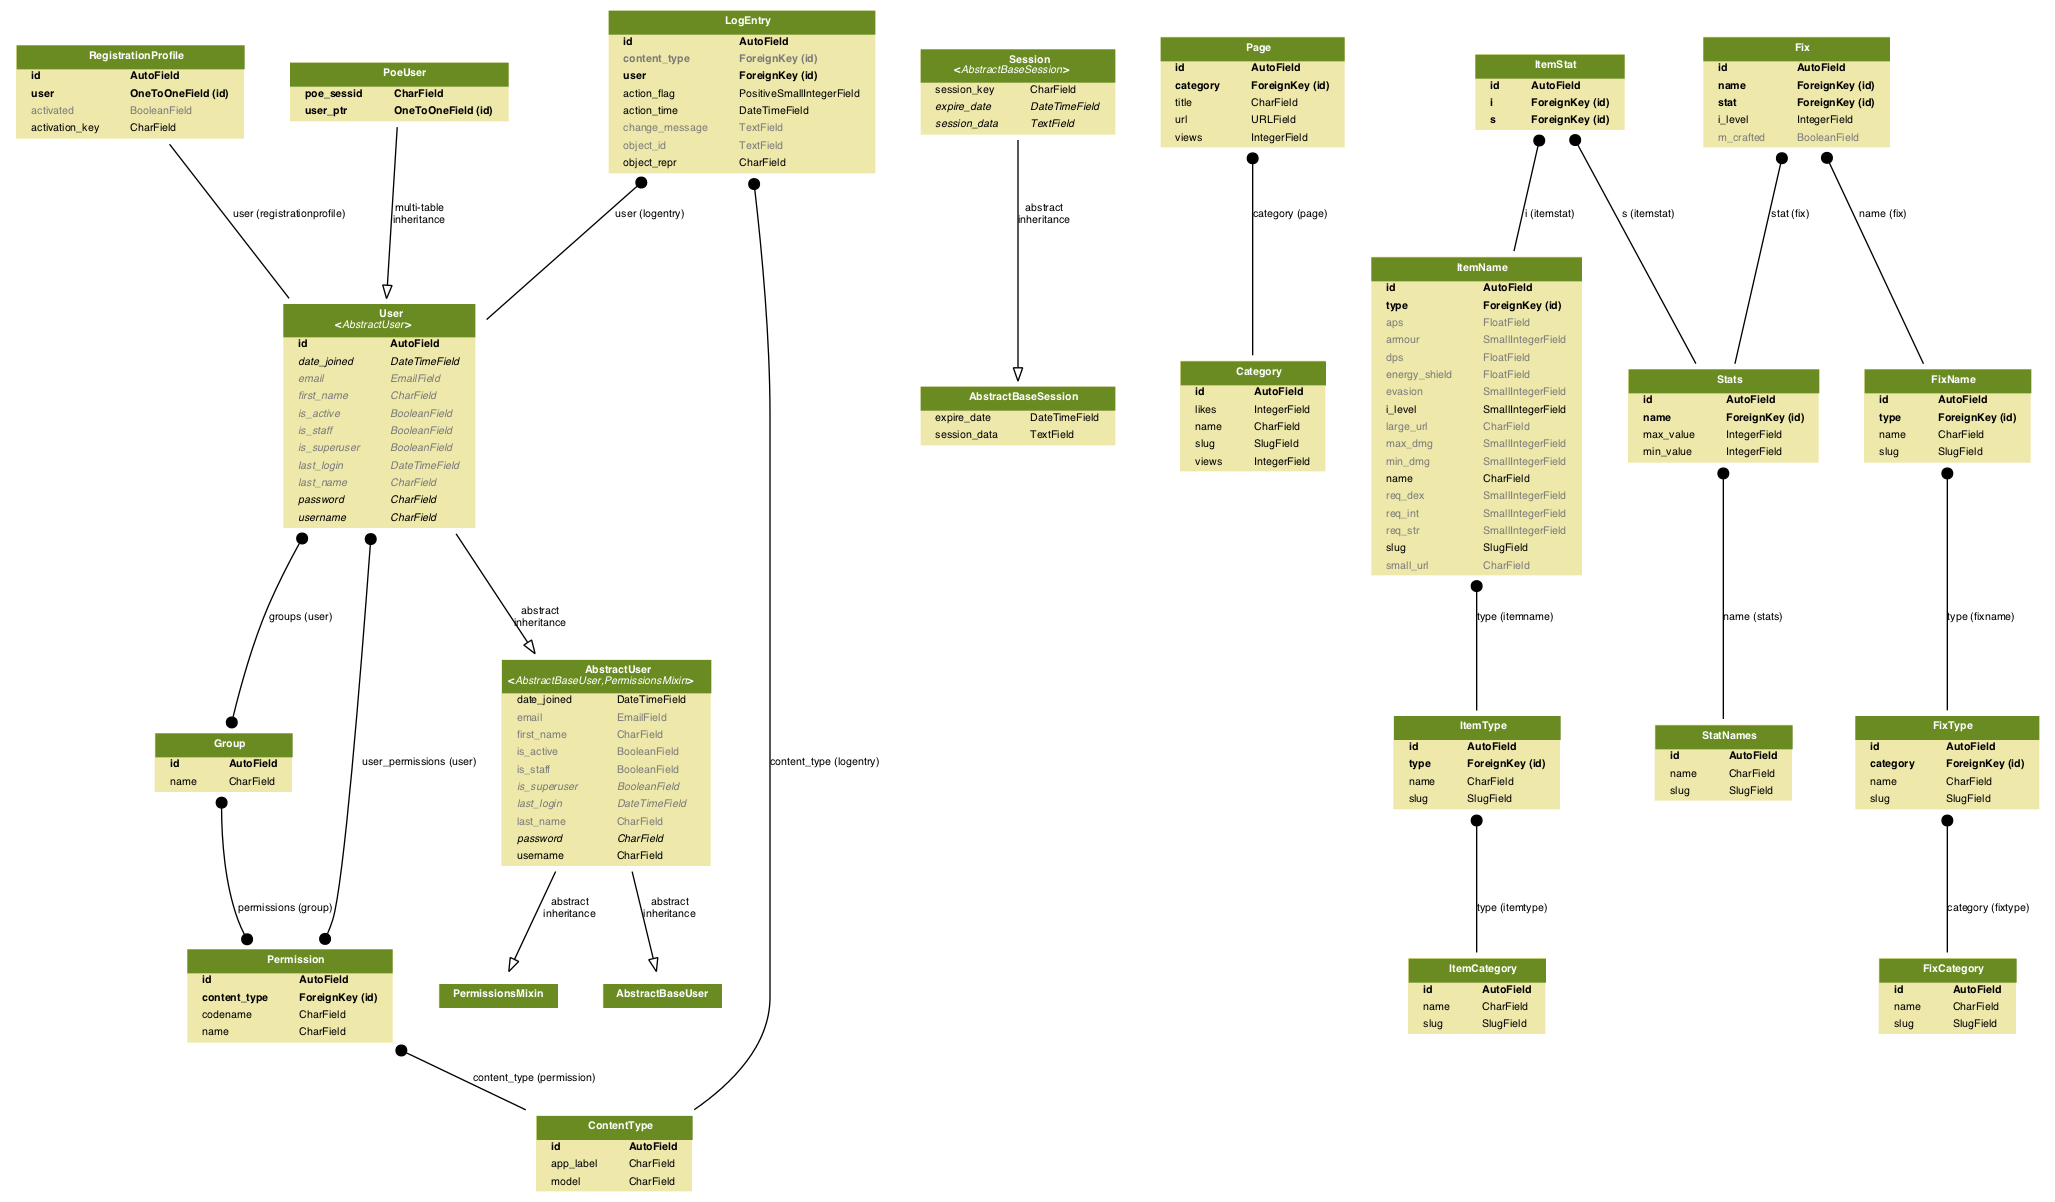
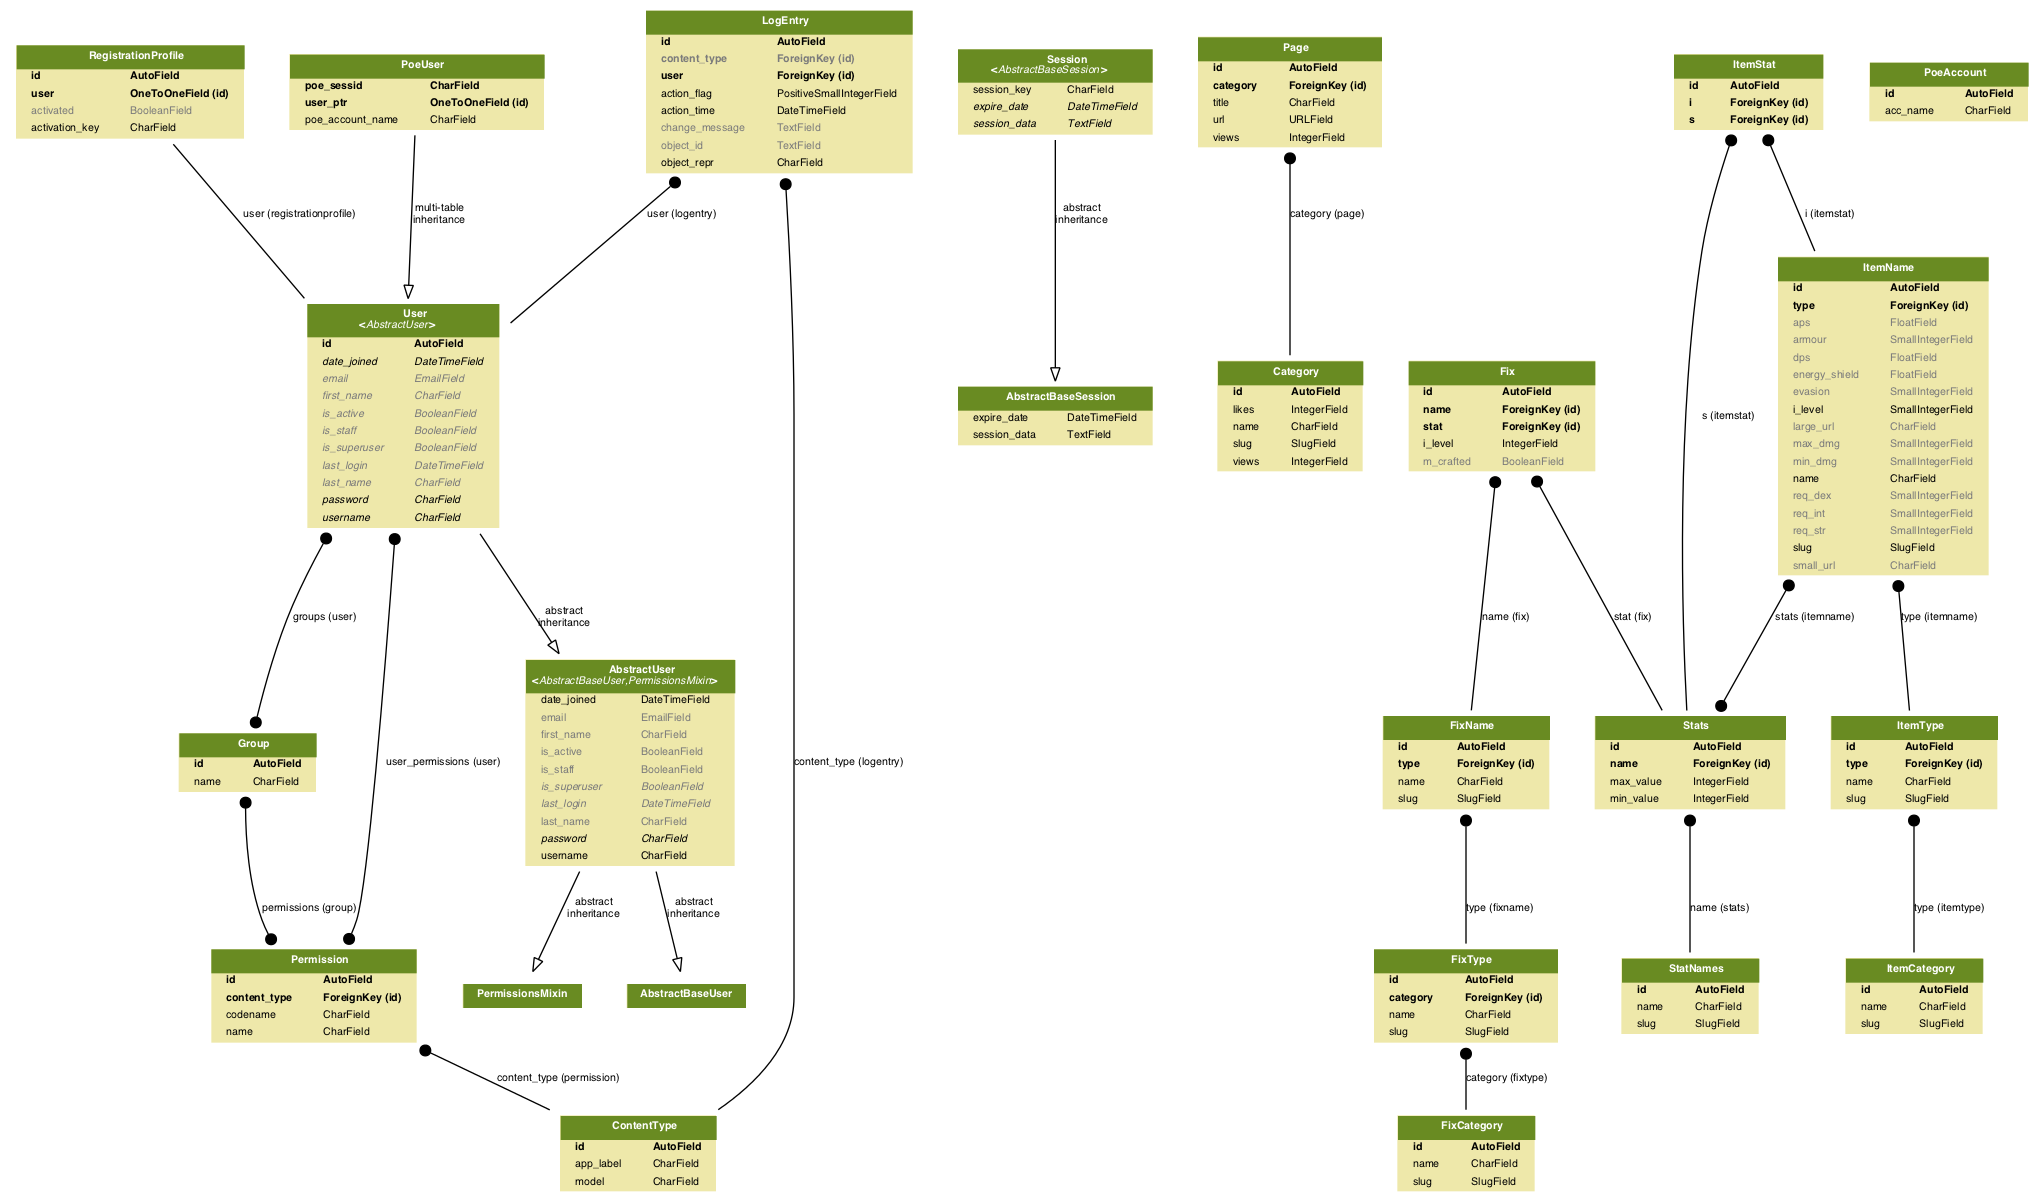
trying to download characters, confused about poe_users and poe_accounts - where should the ssesid go?

diff --git a/poetools_project/templates/poe/index.html b/poetools_project/templates/poe/index.html
@@ -52,7 +52,7 @@
                 </div>
             </div>
 			<ul>
-            	<li  class="list-group-item"><a href="{% url 'ggg_characters' %}">List Characters</a></li>
+            	<li  class="list-group-item"><a href="{% url 'ggg_characters' user.poeuser.poe_account_name%}" >List Characters</a></li>
             </ul>
             
 {% endif %}

diff --git a/poetools_project/poe/models.py b/poetools_project/poe/models.py
@@ -52,6 +52,11 @@ class PoeUser(User):
         managed = True
         #model_label = "poeuser"
 
+    def save(self, *args, **kwargs):
+        super(PoeUser, self).save(*args, **kwargs)
+        x = PoeAccount(acc_name = self.poe_account_name)
+        x.save()
+
 class ItemCategory(models.Model):
     name = models.CharField(unique = True, max_length = 50)
     slug = models.SlugField()
@@ -286,3 +291,22 @@ class ItemStat(models.Model):
         # Uncomment if you don't want the slug to change every time the name changes
         #if self.id is None:
         super(ItemStat, self).save(*args, **kwargs)
+        
+###
+### GGG Characters
+###
+class PoeAccount(models.Model):
+    acc_name = models.CharField(max_length=32, blank=False, )
+    
+    class Meta:
+        managed = True
+        db_table = 'poe_account'
+        app_label = 'poe'
+        
+    def __str__(self):
+        return str(self.acc_name)
+    
+''' def save(self, *args, **kwargs):
+        super(PoeAccount, self).save(*args, **kwargs)
+'''
+    

diff --git a/poetools_project/poe/views.py b/poetools_project/poe/views.py
@@ -10,6 +10,8 @@ from poe.models import FixType
 from poe.models import ItemType
 from poe.models import ItemName
 
+from poe.models import PoeAccount 
+
 from poe.forms import CategoryForm #section 8
 
 import poe.common.character_tools
@@ -305,7 +307,10 @@ def restricted(request):
     return HttpResponse("Since you're logged in, you can see this text!")
 
 @login_required
-def ggg_characters(request):
-    print("hello world from gg_characters")
-    poe.common.character_tools.get_characters(user)
-    return render(request, 'poe/ggg_characters.html')
+def ggg_characters(request, account_name_slug):
+    context_dict = {}
+    print("hello world from gg_characters", account_name_slug)
+    this_account = poe.models.PoeAccount.objects.get(acc_name = account_name_slug)
+    print("chekcing this_account in gg_characters", this_account.poe_sessid)
+    poe.common.character_tools.get_characters(this_account)
+    return render(request, 'poe/ggg_characters.html', context_dict)

diff --git a/poetools_project/poe/urls.py b/poetools_project/poe/urls.py
@@ -8,5 +8,5 @@ urlpatterns = [
     url(r'^item/(?P<category_name_slug>[\w\-]+)/(?P<sub_category_slug>[\w\-]+)/$', views.item, name='item'), # end of section 8
     url(r'^mods/(?P<category_name_slug>[\w\-]+)/$', views.mods, name='mods'), # end of section 8
     url(r'^restricted/', views.restricted, name='restricted'), #sectio9 9
-    url(r'characters', views.ggg_characters, name = 'ggg_characters')
-        ]
+    url(r'characters/(?P<account_name_slug>[\w\-]+)/$', views.ggg_characters, name = 'ggg_characters')
+    ]

diff --git a/poetools_project/poe/common/character_tools.py b/poetools_project/poe/common/character_tools.py
@@ -1,6 +1,6 @@
 #!/bin/python3
 print("hello from no where")
 
-def get_characters(user):
-    print("hello world 2")
+def get_characters(poe_account):
+    print("hello world 2", poe_account)
     pass
